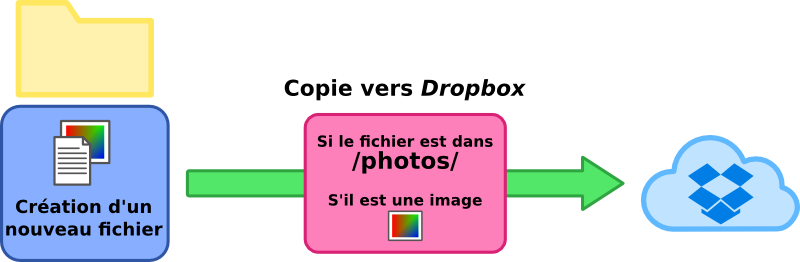
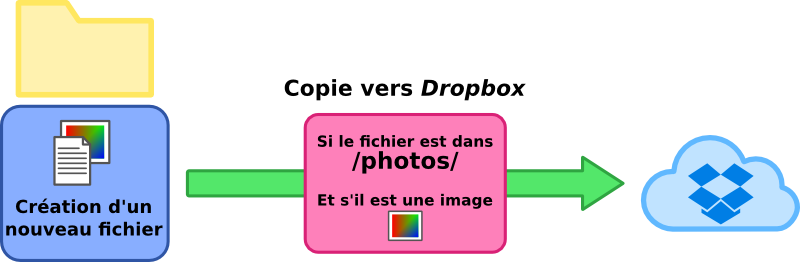
UD1: Configuration: relecture

Changed region(s): [[0.375, 0.7328, 0.625, 0.7939]]

diff --git a/docs/ud1/configuration.md b/docs/ud1/configuration.md
@@ -2,7 +2,7 @@
 
 La configuration est pour le moment rudimentaire et se réalise par une édition manuelle du fichier de configuration, rédigé au format *JSON*.
 
-Un exemple de configuration sera utilisé tout au long de ce chpatire, que vous pouvez retrouver en figure \ref{json_example}.
+Un exemple de configuration sera utilisé tout au long de ce chapitre, que vous pouvez retrouver en figure \ref{json_example}.
 
 
 ## Le nom
@@ -20,7 +20,7 @@ Les entrées sont des instances de *drivers*, et correspondent donc au paramétr
 
 Une entrée contient un champ `driver` contenant le nom du *driver* à instancier, et un champ `options` pour les options spécifiques à chaque *driver*, comme les données de connexion.
 
-Dans notre exemple, nous utiliserons deux entrées: une première pour servir des fichiers locaux et une seconde connectée à un compte *Dropbox*
+Dans notre exemple, nous utiliserons deux entrées: une première pour servir des fichiers locaux et une seconde connectée à un compte *Dropbox*.
 
 \newpage
 
@@ -28,7 +28,7 @@ Dans notre exemple, nous utiliserons deux entrées: une première pour servir de
 
 Le nom du *driver* à utiliser pour les fichiers locaux est `local_storage`. Ce *driver* n'a besoin en option que du répertoire racine à partir duquel il opérera, `root`.
 
-Une configuration possible est donc la suivante:
+Une configuration possible est la suivante:
 
 \begin{figure}[h]
 \begin{lstlisting}[language=json,firstnumber=1]
@@ -44,6 +44,8 @@ Une configuration possible est donc la suivante:
 ### *Dropbox*
 
 Le nom du *driver* *Dropbox* est simplement `dropbox`. Il se configure à l'aide de l'adresse *e-mail* et du mot de passe du compte (champs `email` et `password`).
+
+Dans l'état actuel du projet, le mot de passe associé au compte est stocké en clair dans le fichier.
 
 \begin{figure}[h]
 \begin{lstlisting}[language=json,firstnumber=1]
@@ -63,7 +65,7 @@ Le nom du *driver* *Dropbox* est simplement `dropbox`. Il se configure à l'aide
 
 Les règles vous permettent de définir quels fichiers doivent être synchronisés vers quelles entrées, et s'insèrent dans la section `rules` du document.
 
-Dans notre exemple, nous souhaitons que toutes les modifications (création, mise à jour ou suppression) de fichiers soient transférées à l'entrée «Local», mais que seules celles opérant sur des images du répertoire `photos/`, et de type *JPG* ou *PNG* soit relayées à *Dropbox*, comme explicité sur le schéma ci-dessous:
+Dans notre exemple, nous souhaitons que toutes les modifications (création, mise à jour ou suppression) de fichiers soient transférées à l'entrée «Local», mais que seules celles opérant sur des images du répertoire `photos/`, et de type *JPG* ou *PNG*, soient relayées à *Dropbox*, comme explicité sur les schémas ci-dessous:
 
 \begin{figure}[h]
 \includegraphics[scale=0.75]{rules_schema_1.png}
